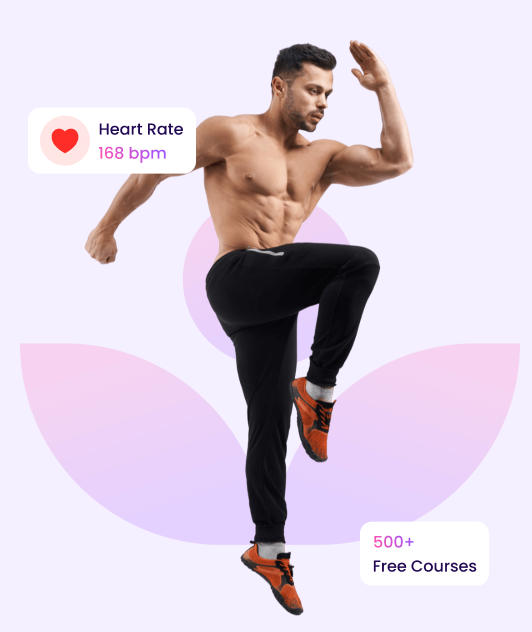
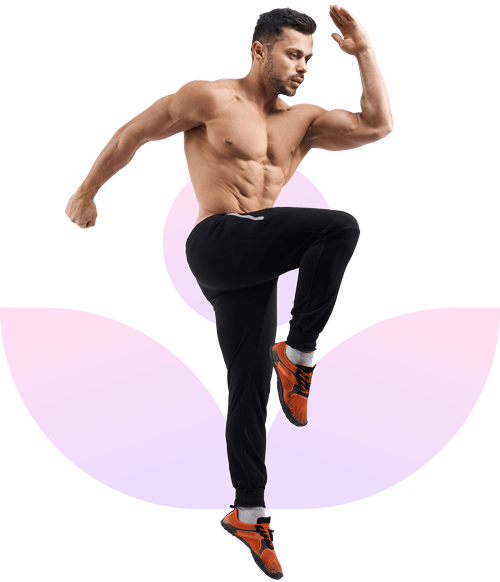
Fixed something on dark

diff --git a/style.css b/style.css
@@ -19,7 +19,7 @@ header {
   display: flex;
   justify-content: space-between;
   align-items: center;
-  padding: 1rem 2rem;
+  padding: 1rem 5rem;
 }
 
 .logo h1 {
@@ -86,17 +86,18 @@ main {
 }
 
 .hero-text h1 {
-  font-size: 4rem;
+  font-size: 600%;
   line-height: 1.2;
   margin-left: 5%;
   margin-bottom: 1%;
+  font-weight: 500;
 }
 
 .yoga-highlight {
   display: inline-block;
   background: linear-gradient(to bottom right, #FF52AF, #9F53FF);
   color: #fff;
-  padding: 0.2em 0.6em;
+  padding: 0.1em 0.2em;
   border-radius: 10px;
   transform: rotate(8deg);
 }
@@ -132,7 +133,7 @@ main {
 }
 
 .stats h4 {
-  font-size: 2.4rem;
+  font-size: 3rem;
   margin-bottom: 0.1rem;
   margin-left: 5rem;
   font-weight: 500;
@@ -141,7 +142,8 @@ main {
 
 .hero-image img {
   width: 100%;
-  max-width: 400px;
+  max-width: 90%;
+  margin-right: 3rem;
 }
 
 .pose-section {
@@ -171,8 +173,6 @@ main {
 
 .pose-text p {
   display: flex;
-  margin-left: 3%;
-  margin-bottom: 1rem;
   align-items: left;
   text-align: flex-start;
 
@@ -188,6 +188,39 @@ main {
   background: transparent;
   cursor: pointer;
 }
+
+.pose-button {
+  margin-left: 30%;
+  position: relative;
+}
+
+.svg-button-wrapper {
+  position: relative;
+  width: 200px;
+  height: 140px;
+}
+
+.svg-button-wrapper svg {
+  position: absolute;
+  top: 0;
+  left: 0;
+  width: 100%;
+  height: 100%;
+}
+
+.svg-button-content {
+  position: relative;
+  z-index: 1;
+  font-weight: bold;
+  color: #9F53FF;
+  font-size: 1.2rem;
+  font-family: 'Lora', serif;
+  height: 100%;
+  display: flex;
+  justify-content: center;
+  align-items: center;
+}
+
 
 .health-section {
   display: flex;
@@ -225,7 +258,6 @@ main {
   margin-top: 5%;
 }
 
-/* Dark Mode */
 body.dark-mode {
   background-color: #220953;
   color: #f4f0fe;
@@ -239,6 +271,11 @@ body.dark-mode .navigation{
 body.dark-mode button {
   color: #220953;
   background: linear-gradient(to bottom right, #f4f0fe, #ccc);
+}
+
+.dark-mode .nav-links li a {
+    color: white;
+
 }
 
 @media (max-width: 768px) {
@@ -268,10 +305,6 @@ body.dark-mode button {
     text-align: center;
   }
 
-  .hero-text h1 {
-    font-size: 2.2rem;
-  }
-
   .stats {
     justify-content: center;
   }
@@ -284,4 +317,19 @@ body.dark-mode button {
         background-color: #a8a9a8;
         opacity: 0.7;
     }
+
+    .pose-button {
+    margin-left: 0;
+    margin-top: 1rem;
+  }
+
+  .svg-button-wrapper {
+    width: 140px;
+    height: 90px;
+  }
+
+  .svg-button-content {
+    font-size: 0.9rem;
+  }
+
 }

diff --git a/index.html b/index.html
@@ -14,9 +14,6 @@
         <h1>Yoga</h1>
       </div>
 
-      <input type="checkbox" id="dark-toggle" />
-      <label for="dark-toggle" class="moon-icon">🌙</label>
-
       <input type="checkbox" id="hamburguer" aria-label="Toggle navigation" />
       <label for="hamburguer" class="menu-icon">&#9776;</label>
 
@@ -26,6 +23,9 @@
         <li><a href="#services2">Services 2</a></li>
         <li><a href="#contact">Contact</a></li>
       </ul>
+
+      <input type="checkbox" id="dark-toggle" />
+      <label for="dark-toggle" class="moon-icon">🌙</label>
     </nav>
   </header>
 
@@ -62,9 +62,31 @@
       <div class="pose-text">
         <p>Get a list of specific influencers in your <br> niche at your fingertips so you can focus <br> on managing your status.</p>
       </div>
-      <div class="pose-button">
-            <button>Next →</button>
-      </div>    
+    <div class="pose-button">
+        <div class="pose-button">
+  <div class="svg-button-wrapper">
+    <svg viewBox="0 0 300 200" xmlns="http://www.w3.org/2000/svg">
+      <defs>
+        <linearGradient id="gradient" x1="0%" y1="0%" x2="100%" y2="100%">
+          <stop offset="0%" stop-color="#FF52AF" />
+          <stop offset="100%" stop-color="#9F53FF" />
+        </linearGradient>
+      </defs>
+      <path d="M150,100 
+               C220,10 280,190 150,170 
+               C20,150 80,10 150,100 Z" 
+            stroke="url(#gradient)" stroke-width="2" fill="none"/>
+      <path d="M150,100 
+               C230,30 270,170 150,160 
+               C30,150 70,30 150,100 Z" 
+            stroke="url(#gradient)" stroke-width="2" fill="none"/>
+    </svg>
+    <div class="svg-button-content">Next →</div>
+  </div>
+</div>
+
+    </div>
+   
     </section>
 
     <section class="health-section">
